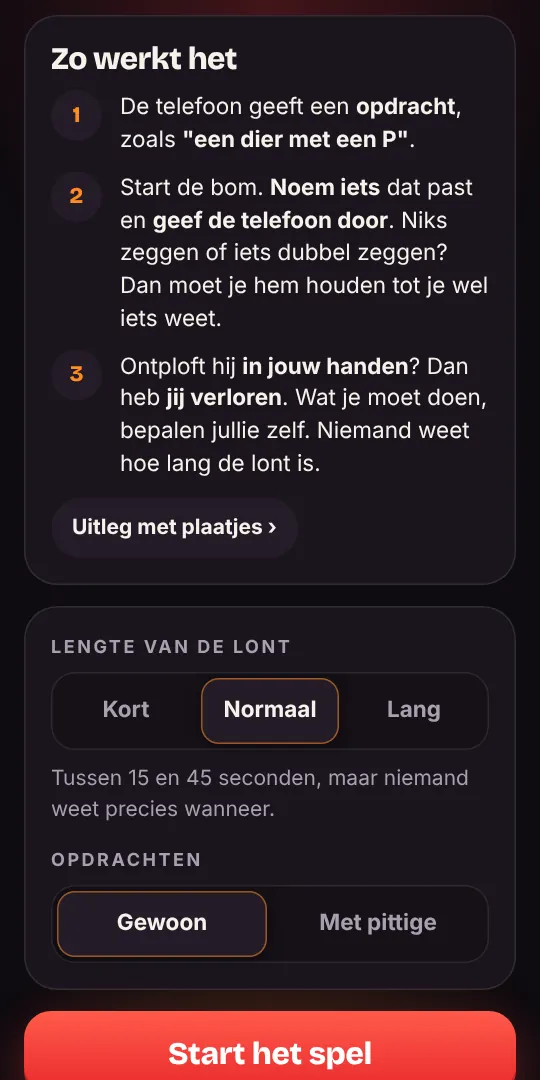
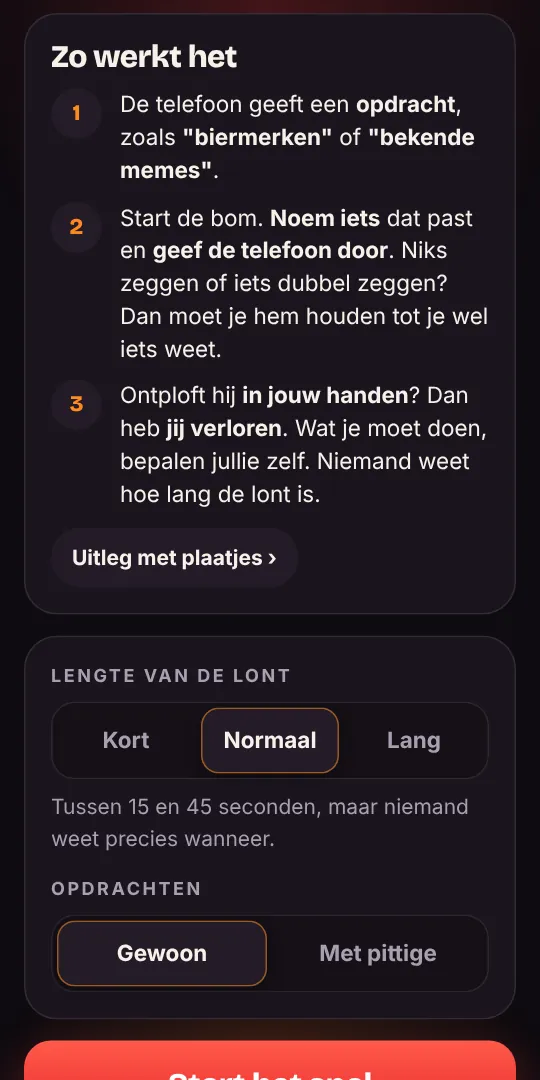
Tikkende Bom: leukere opdrachten over feest, memes, uitgaan en de mensen aan tafel
Weg met de saaie opdrachten (rijmen, dieren met een letter). Nu ruim 100 opdrachten zoals biermerken, bekende memes,
Nederlandse rappers, dingen die je zegt als je dronken bent, rode vlaggen bij een date en mensen met wie iemand aan
deze tafel heeft gezoend. Met pittig komen er persoonlijkere bij (exen, crushes, gênante dingen). De voorbeelden in de
uitleg, De Spelkeet en de README zijn aangepast, en de uitlegplaatjes zijn opnieuw gemaakt.

Claude-Session: https://claude.ai/code/session_01PPbKnCgFtwn9juUNX2EXqM

diff --git a/public/bom.html b/public/bom.html
@@ -190,37 +190,57 @@ const shuffle = (a) => { for (let i = a.length - 1; i > 0; i--) { const j = Math
 const reduce = matchMedia('(prefers-reduced-motion: reduce)').matches;
 
 /* ================= DE OPDRACHTEN ================= */
-// [wat je doet, de opdracht]. Breed genoeg dat iedereen snel iets kan noemen.
+// Feest, memes, uitgaan en de mensen aan tafel. Breed genoeg dat iedereen snel iets kan noemen, en met genoeg
+// stof om te lachen. Met "pittig" komen er persoonlijkere bij (exen, dates, gênante dingen).
 const VAST = [
-  'Automerken', 'Snoep', 'Voetbalclubs', 'Dingen die je meeneemt op vakantie', 'Nederlandse artiesten', 'Pizza-toppings',
-  'Dingen in een slaapkamer', 'Sporten', 'Beroepen', 'Kledingstukken', 'Groenten', 'Fruit', 'Apps op je telefoon',
-  'Hoofdsteden', 'Dingen die rood zijn', 'Dingen die geel zijn', 'Dieren in de dierentuin', 'Dingen in een keuken',
-  'Ontbijt', 'Kaassoorten', 'Disneyfilms', 'Superhelden', 'Instrumenten', 'Dingen op een camping', 'Merken van kleding',
-  'Dingen in een badkamer', 'Feestdagen', 'Bordspellen', 'Talen', 'Lichaamsdelen', 'Dingen in een klaslokaal',
-  'Dingen die je op het strand ziet', 'Snacks uit de snackbar', 'Vogels', 'Schoenen', 'Dingen met wielen',
-  'Dingen die je in een tas hebt', 'Soorten weer', 'Kleuren', 'Nederlandse steden', 'Landen in Europa', 'YouTubers',
-  'Gerechten met rijst', 'Desserts', 'Dingen in een tuin', 'Gereedschap', 'Dingen die vliegen', 'Supermarkten',
-  'Programma\'s op tv', 'Fastfoodketens', 'Dingen die je op een verjaardag ziet', 'Dingen in een ziekenhuis',
-  'Dieren met vier poten', 'Dingen in de zee', 'Merken van frisdrank', 'Soorten brood', 'Dingen die je in de winter doet',
-  'Nederlandse gerechten', 'Pokémon', 'Films met een getal in de titel', 'Dingen die stinken', 'Dingen die je kunt openen',
-  'Spelletjes van vroeger', 'Dingen op een kermis', 'Kruiden en specerijen', 'Bekende Nederlanders', 'Dingen met een knop',
+  // eten en drinken
+  'Biermerken', 'Cocktails', 'Drankspellen', 'Dingen die je zegt als je dronken bent', 'Dingen die je om 3 uur \'s nachts eet',
+  'Snacks uit de snackbar', 'Chipssmaken', 'Sauzen', 'Energiedrankjes en frisdrank', 'Fastfoodketens', 'Snoep',
+  'Snoep van vroeger', 'Dingen die je bij de McDonald\'s bestelt', 'Dingen in een kebabzaak', 'Pizza-toppings',
+  'Dingen die helpen tegen een kater', 'Ontbijt na een avond stappen', 'Dingen die je in de nachtwinkel koopt',
+  // muziek, series en internet
+  'Nederlandse rappers', 'Feestnummers die iedereen meebrult', 'Nummers van het foute uur', 'Nederlandstalige hits',
+  'Liedjes die viral gingen op TikTok', 'Festivals', 'Artiesten die je live hebt gezien', 'TikTokkers', 'YouTubers',
+  'Influencers', 'Bekende memes', 'Bekende Nederlanders', 'Bekende Nederlanders die een meme zijn geworden',
+  'Reality-sterren', 'Realityprogramma\'s', 'Series op Netflix', 'Tv-programma\'s van vroeger', 'Tekenfilms van vroeger',
+  'Disneyfilms', 'Pokémon', 'Superhelden', 'Games', 'Apps op je telefoon', 'Emoji\'s die je het meest stuurt',
+  'Woorden in straattaal', 'Dingen die je in de groepsapp stuurt', 'Celebrity crushes', 'Bekende koppels',
+  // uitgaan en vakantie
+  'Dingen die je ziet in een club', 'Dingen die je in de kroeg hoort', 'Dingen die je kwijtraakt tijdens het stappen',
+  'Dingen in je tas als je uitgaat', 'Dingen die je tegen een taxichauffeur zegt', 'Redenen om vroeg weg te gaan van een feestje',
+  'Dingen die je meeneemt naar een festival', 'Vakantiebestemmingen om te feesten', 'Studentensteden',
+  'Dingen die je op een camping ziet', 'Dingen die fout gaan op vakantie', 'Dingen die je op Marktplaats vindt',
+  // daten
+  'Rode vlaggen bij een date', 'Openingszinnen om iemand te versieren', 'Datingapps', 'Dingen die je doet op een eerste date',
+  'Redenen om een date af te zeggen',
+  // de mensen aan deze tafel
+  'Mensen met wie iemand aan deze tafel heeft gezoend', 'Bijnamen van iemand aan deze tafel',
+  'Dingen die iemand aan deze tafel altijd zegt', 'Dingen waar iemand aan deze tafel bang voor is',
+  'Dingen die iemand aan deze tafel weleens kwijt is geraakt', 'Wat er in de koelkast van iemand aan deze tafel staat',
+  'Wat iemand aan deze tafel doet als hij of zij dronken is', 'Leraren van vroeger', 'Klasgenoten van vroeger',
+  // van alles
+  'Kledingmerken', 'Sneakermerken', 'Automerken', 'Voetballers', 'Voetbalclubs', 'Dingen in de Action',
+  'Dingen die je moeder altijd zegt', 'Dingen die je vader altijd zegt', 'Smoesjes om niet naar school of je werk te gaan',
+  'Smoesjes om te laat te komen', 'Tattoos die je beter niet kunt nemen', 'Dingen op je bucketlist',
+  'Beroepen die je nooit zou willen', 'Dingen die je doet als je je verveelt', 'Namen voor een hond', 'Dingen die stinken',
+  'Kaartspellen', 'Spelletjes van vroeger op het schoolplein', 'Dingen die je ziet in de sportschool', 'Kapsels',
 ];
-const LETTERCAT = ['Een land', 'Een stad', 'Een dier', 'Een voornaam', 'Een beroep', 'Iets om te eten', 'Een merk', 'Iets in huis', 'Iets in de supermarkt', 'Een artiest of band', 'Een film of serie', 'Een sport of spel'];
+const LETTERCAT = ['Een bekende Nederlander', 'Een rapper of zanger', 'Een merk', 'Een snack of snoep', 'Een film of serie', 'Een stad of land', 'Een voornaam'];
 const LETTERS = 'BDGHKLMPRSTVW';
-const RIJM = ['kat', 'huis', 'feest', 'boom', 'zon', 'kaas', 'bed', 'vis', 'hand', 'muis', 'stoel', 'maan', 'tas', 'pet', 'boot', 'neus', 'bal', 'lamp'];
 const PITTIG = [
-  'Smoesjes om te laat te komen', 'Dingen die je liever niet in je zoekgeschiedenis hebt', 'Redenen om een date af te zeggen',
-  'Dingen die je niet tegen je schoonmoeder zegt', 'Gênante momenten op school', 'Dingen die je ouders niet mogen weten',
-  'Dingen die je zegt als je ex belt', 'Slechte openingszinnen', 'Rare gewoontes van iemand aan tafel',
-  'Dingen die je om 4 uur \'s nachts doet', 'Excuses om niet te sporten', 'Dingen die je stiekem leuk vindt',
-  'Dingen die je nooit meer wilt doen', 'Plekken waar je in slaap bent gevallen', 'Dingen die je in de groepsapp spijt hebben',
+  'Exen van mensen aan deze tafel', 'Plekken waar je ooit hebt gezoend', 'Crushes van mensen aan deze tafel',
+  'Mensen aan wie iemand aan deze tafel een dronken appje heeft gestuurd', 'Gênante dingen die iemand aan deze tafel heeft gedaan',
+  'Dingen die je liever niet in je zoekgeschiedenis hebt', 'Dingen die je ouders niet mogen weten', 'Berichten waar je spijt van hebt',
   'Redenen om het uit te maken', 'Leugens die iedereen weleens vertelt', 'Dingen die je doet als niemand kijkt',
-  'Wat je zegt als je iemands naam vergeten bent', 'Dingen die fout gaan op vakantie',
+  'Dingen die je om 4 uur \'s nachts doet', 'Dingen die je zegt als je ex belt', 'Slechte openingszinnen',
+  'Dingen die je nooit meer wilt doen', 'Plekken waar je in slaap bent gevallen', 'Rare gewoontes van iemand aan deze tafel',
+  'Dingen die fout gingen op een feestje', 'Dingen die iemand aan deze tafel stiekem leuk vindt',
+  'Dingen die je niet tegen je schoonmoeder zegt', 'Dingen die je niet wilt horen na een date',
 ];
 function opdrachten(pittig){
   const out = VAST.map((t) => ['Noem', t]);
-  for (const c of LETTERCAT) for (const l of shuffle([...LETTERS]).slice(0, 4)) out.push(['Noem', `${c} met een ${l}`]);
-  for (const r of RIJM) out.push(['Rijm op', r]);
+  // een paar met een letter, voor de afwisseling
+  for (const c of shuffle([...LETTERCAT]).slice(0, 4)) out.push(['Noem', `${c} met een ${shuffle([...LETTERS])[0]}`]);
   if (pittig) for (const t of PITTIG) out.push(['Noem', t], ['Noem', t]);   // pittig komt wat vaker langs
   return shuffle(out);
 }
@@ -332,7 +352,7 @@ const SCHERM = {
     <section class="card">
       <h2>Zo werkt het</h2>
       <ol class="steps">
-        <li><span>De telefoon geeft een <b>opdracht</b>, zoals <b>"een dier met een P"</b>.</span></li>
+        <li><span>De telefoon geeft een <b>opdracht</b>, zoals <b>"biermerken"</b> of <b>"bekende memes"</b>.</span></li>
         <li><span>Start de bom. <b>Noem iets</b> dat past en <b>geef de telefoon door</b>. Niks zeggen of iets dubbel zeggen? Dan moet je hem houden tot je wel iets weet.</span></li>
         <li><span>Ontploft hij <b>in jouw handen</b>? Dan heb <b>jij verloren</b>. Wat je moet doen, bepalen jullie zelf. Niemand weet hoe lang de lont is.</span></li>
       </ol>

diff --git a/public/speelhal.html b/public/speelhal.html
@@ -343,7 +343,7 @@ const GAMES = [
   { id: 'bom', mode: 'een', name: 'Tikkende', name2: 'Bom', short: 'Tikkende Bom', acc: '#ff3b3b', tint: '#2a0d10', bg: '#140b0f',
     url: '/bom',
     chips: ['Partyspel', 'Eén telefoon'],
-    text: 'De telefoon geeft een opdracht, zoals een dier met een P, en begint te tikken. Noem iets dat past en geef hem snel door. Niemand weet hoe lang de lont is: ontploft hij in jouw handen, dan heb jij verloren. Wat je moet doen, bepalen jullie zelf.',
+    text: 'De telefoon geeft een opdracht, zoals biermerken of bekende memes, en begint te tikken. Noem iets dat past en geef hem snel door. Niemand weet hoe lang de lont is: ontploft hij in jouw handen, dan heb jij verloren. Wat je moet doen, bepalen jullie zelf.',
     facts: [['Spelers', '2 of meer'], ['Telefoons', 'één, die rondgaat'], ['Lont', '10 tot 70 seconden']],
     cta: 'Speel Tikkende Bom' }
 ];
@@ -769,7 +769,7 @@ const PREV = {
   // Tikkende Bom: een opdracht bovenin, de bom tikt (steeds sneller) en dan: boem
   bom(c, w, h, t){
     const s = t / 1000, cyc = Math.floor(s / 6), p = s % 6, boom = p > 4.4, q = boom ? (p - 4.4) / 1.6 : 0;
-    const [lab, txt] = [['Noem', 'Een dier met een P'], ['Rijm op', 'huis'], ['Noem', 'Snoep'], ['Noem', 'Iets in de supermarkt met een B']][cyc % 4];
+    const [lab, txt] = [['Noem', 'Biermerken'], ['Noem', 'Bekende memes'], ['Noem', 'Snacks uit de snackbar'], ['Noem', 'Festivals']][cyc % 4];
     const SF = 'system-ui,-apple-system,"Segoe UI",Roboto,sans-serif';
     const g = c.createRadialGradient(w / 2, h * .62, 0, w / 2, h * .62, Math.max(w, h) * .8); g.addColorStop(0, '#3a1216'); g.addColorStop(.55, '#1a0f14'); g.addColorStop(1, '#0e0b10'); c.fillStyle = g; c.fillRect(0, 0, w, h);
     const k = Math.min(w / 340, h / 300);

diff --git a/public/js/uitleg.js b/public/js/uitleg.js
@@ -75,7 +75,7 @@
     ] },
     bom: { name: 'Tikkende Bom', c: '#ff3b3b', url: '/bom', slides: [
       { img: 'bom-1', t: 'Eén telefoon', p: 'Jullie spelen samen op één telefoon: geen namen, geen codes. Kies hoe lang de lont ongeveer is en of er ook pittige opdrachten tussen zitten, en tik op <b>Start het spel</b>.' },
-      { img: 'bom-2', t: 'De opdracht', p: 'Elke ronde komt er een opdracht, zoals <b>een dier met een T</b> of <b>rijm op huis</b>. Te moeilijk? Tik op Andere opdracht. Wie de telefoon heeft, tikt op <b>Start de bom</b>.' },
+      { img: 'bom-2', t: 'De opdracht', p: 'Elke ronde komt er een opdracht, zoals <b>biermerken</b>, <b>bekende memes</b> of <b>mensen met wie iemand aan deze tafel heeft gezoend</b>. Te moeilijk? Tik op Andere opdracht. Wie de telefoon heeft, tikt op <b>Start de bom</b>.' },
       { img: 'bom-3', t: 'Noem iets en geef door', p: 'De bom tikt. Noem iets dat past en geef de telefoon snel door. Niks zeggen of iets dat al gezegd is? Dan houd je hem tot je wel iets weet. De laatste seconden tikt hij sneller.' },
       { img: 'bom-4', t: 'Boem!', p: 'Niemand weet wanneer hij afgaat. Ontploft hij <b>in jouw handen</b>, dan heb jij verloren. Wat je moet doen, bepalen jullie zelf. Daarna de volgende ronde.' },
     ] },

diff --git a/README.md b/README.md
@@ -65,7 +65,7 @@ Karnemelk Kart is een originele, kleurrijke arcade-kartgame voor in de browser. 
   - Ligt er een mijn op die kaart: boem. Je krijgt de strafpunten per mijn en legt de mijn ergens anders neer: op een kaart of tussen twee kaarten (dan raakt hij ze allebei). Verlegde mijnen ziet iedereen; van de verstopte zie je alleen hoeveel er nog liggen.
   - Daarna gok je rood of zwart en gaat de kaart open. Goed: de volgende is aan de beurt. Fout: 2 strafpunten en je gooit opnieuw. Zo speelt ook de online versie van dark-mark.com. Liggen alle kaarten open, dan legt de host een nieuw veld; de stand blijft staan. Valt wie aan de beurt is weg, dan is de volgende aan de beurt (moest hij nog een mijn leggen, dan doet de server dat). In het menu staat de stand: strafpunten, mijnen, goed en fout gegokt.
 - **Borrelbord** (via De Spelkeet, of los op `/borrelbord`, ook als eigen app op het beginscherm): het partyspel als ganzenbord, online met 2 tot 10 vrienden. Iemand maakt een tafel en deelt de code of de link (`/borrelbord/ABCD`); de host gooit als eerste.
-- **Tikkende Bom** (tabblad Eén telefoon, of los op `/bom`): een partyspel op één telefoon die rondgaat, in een eigen donkere stijl. De telefoon geeft een opdracht (zoals een dier met een P, of rijm op huis) en tikt; noem iets en geef hem door. Niemand weet hoe lang de lont is; ontploft hij in jouw handen, dan heb jij verloren (wat je moet doen, bepalen jullie zelf). Geen namen en geen punten; je kiest alleen een korte, normale of lange lont en of er pittige opdrachten tussen zitten. Draait helemaal op de telefoon; alleen het begin van een potje gaat naar de statistieken (`/api/potje`).
+- **Tikkende Bom** (tabblad Eén telefoon, of los op `/bom`): een partyspel op één telefoon die rondgaat, in een eigen donkere stijl. De telefoon geeft een opdracht (zoals biermerken, bekende memes of mensen met wie iemand aan tafel heeft gezoend) en tikt; noem iets en geef hem door. Niemand weet hoe lang de lont is; ontploft hij in jouw handen, dan heb jij verloren (wat je moet doen, bepalen jullie zelf). Geen namen en geen punten; je kiest alleen een korte, normale of lange lont en of er pittige opdrachten tussen zitten. Draait helemaal op de telefoon; alleen het begin van een potje gaat naar de statistieken (`/api/potje`).
   - Een eigen stijl: een vrolijk spelbord van 7 bij 7 met gekleurde vakjes op een houten tafel, pionnen in de kleur van elke speler die vakje voor vakje lopen, en een grote steen om te gooien.
   - **Drie versies, de host kiest** in de lobby (en na een potje, voor het volgende): *licht* (zo'n 10 strafpunten per speler per potje, geen mega strafpunten; de winnaar kiest wie er 3 krijgt, de laatste krijgt er 2), *middel* (zo'n 15; de regels hieronder) en *extreem* (zo'n 25: overal meer, mega strafpunten op 24 en 47 en bij de doodskop, en de winnaar en de laatste allebei een mega strafpunt). Zonder keuze is het middel.
   - 48 vakjes van start tot finish. Om de beurt gooi je met je telefoon en loopt je pion zoveel vakjes. Bij middel: rood: strafpunten voor jou (1 of 2). Groen: geef 1 tot 3 strafpunten aan wie jij kiest. Oranje: iedereen of je buren krijgen er 1, of de laatste krijgt er 2. Paars: een vraag voor de groep ("Wie single is, krijgt er 2") of bedenk een regel. Geel: dubbel of niks (even: de rest krijgt er 1, oneven: jij krijgt er 3), een duel (allebei gooien, de laagste krijgt er 2), een maatje (die krijgt mee als jij iets krijgt) of van plek ruilen.
